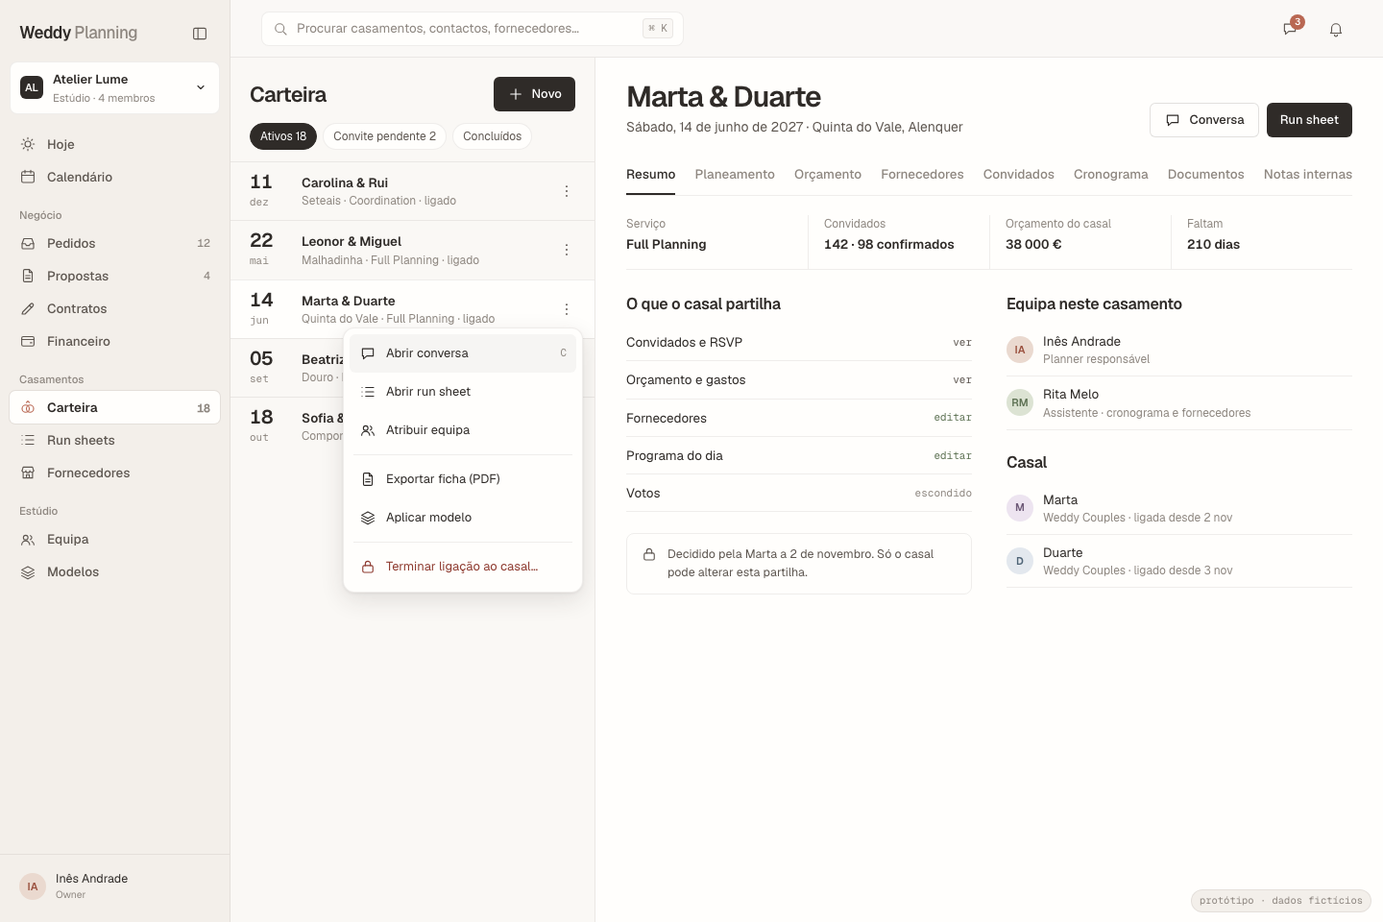
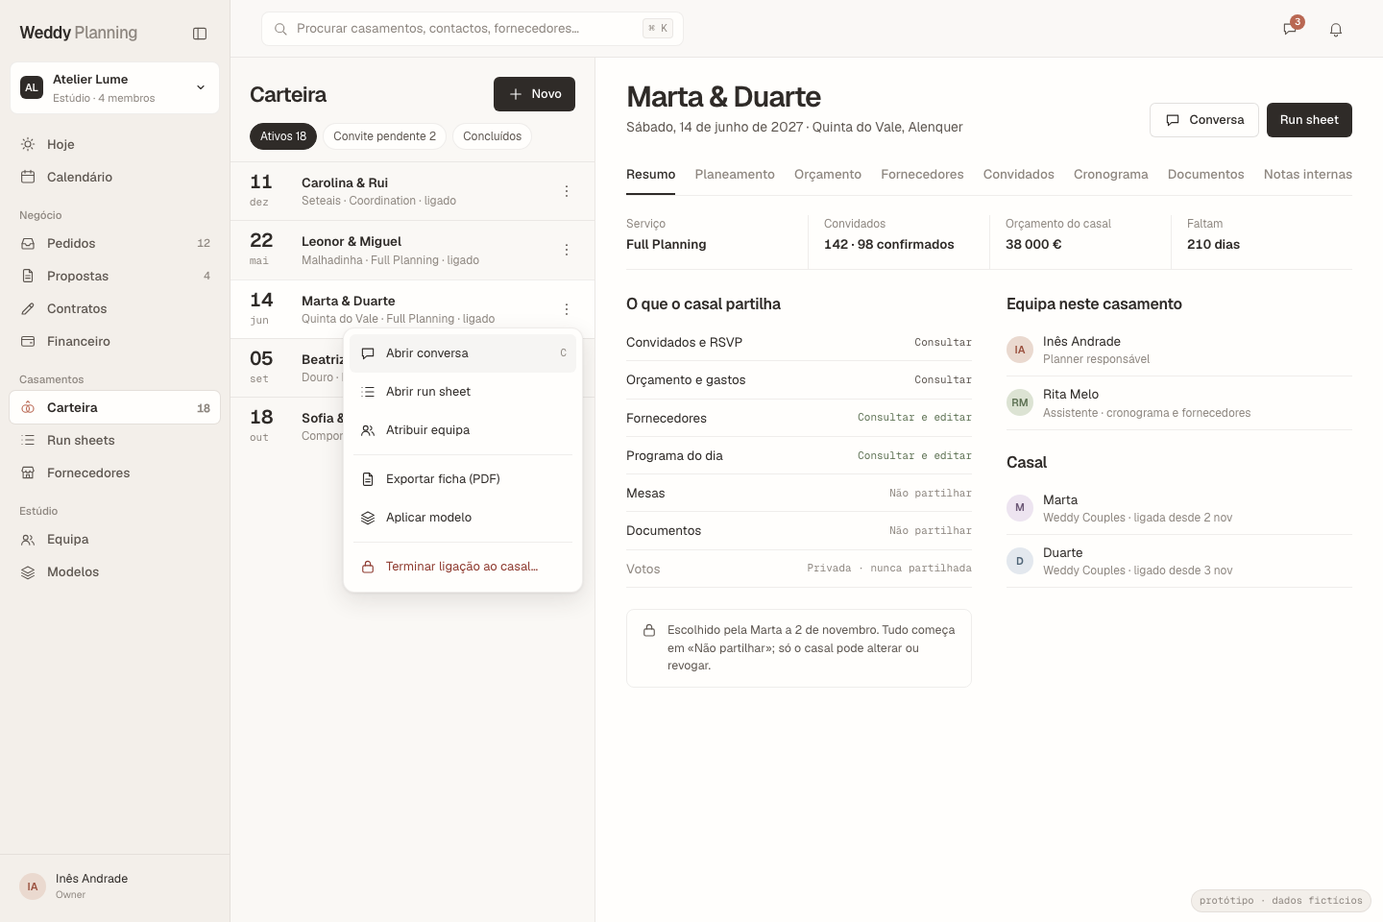
Weddy Planning — documentação v2.1: inconsistências corrigidas, Q1–Q8 explicitamente pendentes
- README: decisões pendentes em Doc. 3 §16; nota de que o planningLink do
  Doc. 1 §9 é exemplo histórico; nota sobre datas e localização do worktree.
- DESIGN.md e Doc. 5: shadcn/ui deixa de ser condicional (stack React + Vite).
- Protótipo e Doc. 5: níveis «Não partilhar / Consultar / Consultar e
  editar»; Votos como secção privada; capturas da Carteira atualizadas.
- Docs. 3, 6, 7: recomendações marcadas como não aprovadas; tabela de estado
  das questões Q1–Q8; datas corrigidas para 16/11/2026.
Doc. 1 e Doc. 2 inalterados. Só documentação.

diff --git a/docs/planning/prototipos/index.html b/docs/planning/prototipos/index.html
@@ -173,7 +173,9 @@ h2{font-weight:600;font-size:16px;letter-spacing:-.015em;margin:0}
 .share{list-style:none;margin:8px 0 0;padding:0}
 .share li{display:flex;align-items:center;justify-content:space-between;gap:12px;padding:9px 0;border-bottom:1px solid var(--line)}
 .lvl-pill{font-family:var(--mono);font-size:11px;color:var(--ink-2)}
-.lvl-pill.edit{color:var(--sage-dark)}.lvl-pill.hidden{color:var(--ink-soft)}
+.lvl-pill.edit{color:var(--sage-dark)}.lvl-pill.none{color:var(--ink-soft)}
+.share li.private{color:var(--ink-soft)}
+.share .priv-note{font-size:12px;color:var(--ink-soft);padding:9px 0 0}
 .people{list-style:none;margin:8px 0 0;padding:0}
 .people li{display:flex;align-items:center;gap:10px;padding:8px 0;border-bottom:1px solid var(--line)}
 .people small{color:var(--ink-soft);display:block;font-size:12px}
@@ -423,13 +425,15 @@ table.rs{width:100%;border-collapse:collapse;font-variant-numeric:tabular-nums}
               <div>
                 <h2>O que o casal partilha</h2>
                 <ul class="share">
-                  <li><span>Convidados e RSVP</span><span class="lvl-pill">ver</span></li>
-                  <li><span>Orçamento e gastos</span><span class="lvl-pill">ver</span></li>
-                  <li><span>Fornecedores</span><span class="lvl-pill edit">editar</span></li>
-                  <li><span>Programa do dia</span><span class="lvl-pill edit">editar</span></li>
-                  <li><span>Votos</span><span class="lvl-pill hidden">escondido</span></li>
+                  <li><span>Convidados e RSVP</span><span class="lvl-pill">Consultar</span></li>
+                  <li><span>Orçamento e gastos</span><span class="lvl-pill">Consultar</span></li>
+                  <li><span>Fornecedores</span><span class="lvl-pill edit">Consultar e editar</span></li>
+                  <li><span>Programa do dia</span><span class="lvl-pill edit">Consultar e editar</span></li>
+                  <li><span>Mesas</span><span class="lvl-pill none">Não partilhar</span></li>
+                  <li><span>Documentos</span><span class="lvl-pill none">Não partilhar</span></li>
+                  <li class="private"><span>Votos</span><span class="lvl-pill none">Privada · nunca partilhada</span></li>
                 </ul>
-                <div class="callout"><svg class="ic" aria-hidden="true"><use href="#i-lock"/></svg>Decidido pela Marta a 2 de novembro. Só o casal pode alterar esta partilha.</div>
+                <div class="callout"><svg class="ic" aria-hidden="true"><use href="#i-lock"/></svg>Escolhido pela Marta a 2 de novembro. Tudo começa em «Não partilhar»; só o casal pode alterar ou revogar.</div>
               </div>
               <div>
                 <h2>Equipa neste casamento</h2>

diff --git a/docs/planning/05-design-system.md b/docs/planning/05-design-system.md
@@ -1,6 +1,6 @@
 # Documento 5 — Design System da Weddy Planning
 
-Base: `docs/design/DESIGN-SYSTEM.md` (extraído do código real da Couples). A Planning **estende** esse sistema: mantém a paleta e o tom, mas é uma ferramenta de trabalho **desktop-first**, mais densa, com **tipografia sans geométrica minimalista** (revisão de 17/11, a pedido da Rita: as serifas deixam de ser usadas na Planning; a Couples não muda). Protótipo visual estático: `docs/planning/prototipos/index.html` (dados fictícios) e capturas em `docs/planning/prototipos/capturas/`.
+Base: `docs/design/DESIGN-SYSTEM.md` (extraído do código real da Couples). A Planning **estende** esse sistema: mantém a paleta e o tom, mas é uma ferramenta de trabalho **desktop-first**, mais densa, com **tipografia sans geométrica minimalista** (revisão de 16/11, a pedido da Rita: as serifas deixam de ser usadas na Planning; a Couples não muda). Protótipo visual estático: `docs/planning/prototipos/index.html` (dados fictícios) e capturas em `docs/planning/prototipos/capturas/`.
 
 Método: auditoria da identidade existente → extensão por padrões (formato "Extend" da skill `design:design-system`) → protótipo → capturas reais a 1440 px e 390 px → revisão visual e correções (3 rondas) → **revisão com as regras das skills Taste minimalist, Impeccable (/audit, /polish) e Vercel Web Interface Guidelines** (2 rondas: tipografia, botões, semântica, alvos de toque, algarismos tabulares).
 
@@ -65,7 +65,7 @@ Uma só família desenhada para a Weddy (21 símbolos num sprite): grelha 24, tr
 | Ecrã | Capturas | O que demonstra |
 |---|---|---|
 | Hoje | `hoje-desktop`, `hoje-telemovel`, `hoje-recolhida-desktop` | Números do negócio, radar com estado por ponto + texto, próximos casamentos, agenda, nota da IA com ações; barra lateral recolhida |
-| Carteira (novo) | `carteira-menu-desktop`, `carteira-telemovel`, `seletor-organizacao-desktop` | Mestre-detalhe; menu ⋮ aberto; **o que o casal partilha por secção** (ver/editar/escondido, decidido pelo casal); equipa atribuída; seletor de organização aberto |
+| Carteira (novo) | `carteira-menu-desktop`, `carteira-telemovel`, `seletor-organizacao-desktop` | Mestre-detalhe; menu ⋮ aberto; **o que o casal partilha por secção** (Não partilhar / Consultar / Consultar e editar, decidido pelo casal; votos como secção privada, não partilhável); equipa atribuída; seletor de organização aberto |
 | Pedidos | `crm-desktop` | Pipeline de 6 fases com filetes, etiquetas e valores |
 | Run sheet | `runsheet-desktop`, `runsheet-telemovel` | Tabela por fases, horas em mono, linha atual, estados, vistas Planner/Equipa/Fornecedores |
 | Conversas | `conversas-desktop`, `conversas-telemovel` | Três painéis, decisão registada, anexo, leitura individual |
@@ -79,17 +79,17 @@ Design system da Couples (`docs/design/DESIGN-SYSTEM.md`); padrões de mercado o
 
 ## 8. Skills de design utilizadas
 
-**2.ª ronda (17/11), pedidas pela Rita** — regras lidas nas fontes e aplicadas (nada instalado):
+**2.ª ronda (16/11), pedidas pela Rita** — regras lidas nas fontes e aplicadas (nada instalado):
 - **Menus (Uxcel Lab)**: tipo de menu pela estrutura da escolha, ordem por uso, 5–9 itens, divisórias, estados, atalhos só padrão → §4.
 - **Hallmark** ([nexu-io/open-design](https://github.com/nexu-io/open-design), Apache-2.0): variedade estrutural (mestre-detalhe) e anti-padrões (eyebrow em todas as secções, faixas laterais, hover-only, texto clicável em duas linhas) → §4.
 - **Icons8**: princípio de um só pacote coerente aplicado com um conjunto próprio; a skill exige MCP e licença da Icons8 → §5.
-- **shadcn/ui**: requer projeto com `components.json` (React + Tailwind); fica como recomendação de componentes se a stack for Vite + React → DESIGN.md.
+- **shadcn/ui**: biblioteca de componentes da stack aprovada (React + Vite); tematizada com os tokens do DESIGN.md → DESIGN.md.
 - **Redesign Existing Projects** (agora parte de `design-taste-frontend`, Leonxlnx): preservar marca e conteúdo, uma escala de raios, no máximo duas caixas encaixadas.
 - **Design System Generator**: produzido o [DESIGN.md](DESIGN.md) da Planning (tokens, tipografia, ícones, navegação, componentes, regras de qualidade).
 
 **1.ª ronda**:
 
-**Pedidas pela Rita a 17/11 e aplicadas** (regras lidas nos repositórios oficiais e aplicadas manualmente; nada instalado):
+**Pedidas pela Rita a 16/11 e aplicadas** (regras lidas nos repositórios oficiais e aplicadas manualmente; nada instalado):
 - **Taste — minimalist-skill** ([Leonxlnx/taste-skill-classics](https://github.com/Leonxlnx/taste-skill-classics)): sans geométrica, tracking negativo nos títulos, off-black, cor escassa, botões 4–6 px, sombras quase invisíveis, sem emojis.
 - **Impeccable** ([pbakaus/impeccable](https://github.com/pbakaus/impeccable)): `/audit` (acessibilidade, theming, responsivo, integridade) e `/polish` (alinhamento, estados, consistência tipográfica, alvos de toque).
 - **Web Interface Guidelines** ([vercel-labs/web-interface-guidelines](https://github.com/vercel-labs/web-interface-guidelines)): botões reais em vez de `<a>` sem destino, `aria-hidden` nos ícones decorativos, link para saltar ao conteúdo, `tabular-nums`, `touch-action: manipulation`, `theme-color`, sem `transition: all`, campo de pesquisa com rótulo.

diff --git a/docs/planning/06-roadmap-tecnico.md b/docs/planning/06-roadmap-tecnico.md
@@ -1,6 +1,6 @@
 # Documento 6 — Roadmap técnico
 
-**Versão 2 (17/11/2026)** — a Fase 1 passa a cinco entregas independentes (1A–1E). Nada está implementado. Legenda: **[Decisão aprovada]**, **[Proposta técnica]**, **[Questão pendente]** (Doc. 3 §16), **[Trabalho futuro]**.
+**Versão 2.1 (16/11/2026)** — a Fase 1 passa a cinco entregas independentes (1A–1E). Nada está implementado. Legenda: **[Decisão aprovada]**, **[Proposta técnica]**, **[Questão pendente]** (Doc. 3 §16), **[Trabalho futuro]**.
 
 Complexidade: **S** (dias), **M** (1–2 semanas), **L** (3–5 semanas), **XL** (> 5 semanas) para uma pessoa com apoio de IA.
 
@@ -38,24 +38,24 @@ E termina com relatório de testes e aprovação expressa antes da entrega segui
 - **Testes específicos**: convite expirado/reutilizado/revogado; membro de A tenta ler B; utilizador tenta alterar o próprio papel/estado; remoção concorrente com ação do próprio membro.
 
 ### 1B — RBAC, ABAC e isolamento
-- **Entregáveis**: matriz de papéis (owner, admin, planner, coordinator, assistant) e permissões por área da organização; helpers de autorização partilhados pelas funções; regras correspondentes; App Check (enforcement nas callables da Planning; Firestore/Storage em monitor).
+- **Entregáveis**: matriz de papéis (owner, admin, planner, coordinator, assistant) e permissões por área da organização; helpers de autorização partilhados pelas funções; regras correspondentes; App Check com a estratégia decidida em Q7 (proposta: enforcement nas callables da Planning; Firestore/Storage em monitor).
 - **Aceitação**: matriz de autorização do Doc. 3 §11 coberta por testes (cada linha, caso permitido e recusado); nenhuma decisão de segurança só no frontend.
 - **Testes específicos**: 2 organizações × 5 papéis × operações; pedidos sem App Check recusados nas callables; IDOR trocando `orgId` no caminho e no corpo do pedido.
 
 ### 1C — Grants e ligação profissional
 - **Entregáveis**: `planningInvites`; `professionalLinks/{orgId}` com `status`; `grants/{uid}`; aceitação com verificação de propriedade (Doc. 3 §8); fim da relação; revogação de grant; e-mails de convite com o envio existente (anti-injeção).
 - **Fora de âmbito**: qualquer leitura ou escrita dos dados do casal.
-- **Aceitação**: só um dono real do casamento associa o casamento; conhecer ID, email ou token não basta; regra de Q1 aplicada (até decisão: no máximo uma ligação ativa).
+- **Aceitação**: só um dono real do casamento associa o casamento; conhecer ID, email ou token não basta; comportamento com várias organizações conforme a decisão Q1 — **a 1C não começa sem essa decisão**.
 - **Testes específicos**: utilizador não-dono com token válido; dono com token de outro convite; convite expirado/revogado/reutilizado; força bruta (rate limit); casamento já ligado a esta/outra organização; contas Apple com email privado; fim da relação pelo casal e pela organização; Couples intacta após cada caso.
 
 ### 1D — Consentimento e projeção segura
-- **Entregáveis**: ecrã de permissões do casal (Doc. 7 §4); função de consentimento (só donos); `accessRequests`; projeções por secção com `sourceRev`; regras de leitura que verificam a autorização atual; invalidação na revogação; reconciliação agendada e a pedido; leitura sensível por função.
+- **Entregáveis**: ecrã de permissões do casal (Doc. 7 §4); função de consentimento (só donos); `accessRequests`; projeções conforme a estratégia decidida em Q4 (proposta: por secção, com `sourceRev`); regras de leitura que verificam a autorização atual; invalidação na revogação; reconciliação agendada e a pedido; leitura sensível por função.
 - **Aceitação**: nenhuma secção visível sem escolha afirmativa do casal; revogação com efeito imediato mesmo com projeção antiga.
 - **Testes específicos**: revogação durante uma leitura; alterações rápidas de permissões (`none→read→none` em < 1 s); trigger atrasada (simulada); trigger falhada (sem projeção); projeção desatualizada após revogação; casal e planner em simultâneo; cache local do planner após `permission-denied`; membro removido com listener aberto.
 
 ### 1E — Escrita controlada por secção
 - **Entregáveis**: função `planningUpdateSection` com verificação completa, `baseRev`, validação de esquema por secção e operações da tabela M4a (Doc. 4); registo em `activity` e `auditLog`.
-- **Aceitação**: escrita só em secções `read_write`; nenhuma eliminação pelo planner (proposta Q8); Couples sem regressões.
+- **Aceitação**: escrita só em secções `read_write`; operações do planner por secção conforme a decisão Q8 (proposta: sem eliminação); Couples sem regressões.
 - **Testes específicos**: escrita em `read` e `none` recusada; revogação entre leitura e escrita; conflito de `baseRev`; edição simultânea do casal e do planner na mesma chave e em chaves diferentes; tamanho do `json` dentro do limite; `validateWeddingStateOnWrite` aceita as escritas válidas; suite completa da Couples.
 
 ## Fases seguintes (inalteradas no âmbito, reordenadas na dependência)

diff --git a/docs/planning/03-arquitetura-tecnica.md b/docs/planning/03-arquitetura-tecnica.md
@@ -1,6 +1,6 @@
 # Documento 3 — Arquitetura técnica
 
-**Versão 2 (17/11/2026)** — revista após a revisão da Fase 0. A direção estratégica está aprovada; **a arquitetura técnica tem aprovação condicionada** às questões da §16. Nada deste documento está implementado.
+**Versão 2.1 (16/11/2026)** — revista após a revisão da Fase 0. A direção estratégica está aprovada; **a arquitetura técnica tem aprovação condicionada** às questões da §16. Nada deste documento está implementado.
 
 Legenda usada em todo o documento:
 **[Estado atual]** o que existe hoje (ver Documento 1) · **[Decisão aprovada]** decidido pela proprietária · **[Proposta técnica]** recomendação, ainda não aprovada · **[Questão pendente]** exige decisão (§16) · **[Trabalho futuro]** fora da Fase 1.
@@ -97,7 +97,7 @@ Opções de leitura [Questão pendente] Q4:
 | **R2. Projeção protegida por regras que leem a autorização** | `plannerViews/{weddingId}_{orgId}/sections/{section}` gerada por trigger; a **regra** de leitura verifica, no momento, `consent/current.sections[section] in ['read','read_write']` + `grants/{uid}.status=='active'` + `professionalLinks/{orgId}.status=='active'` + membership ativa | Imediata: a regra lê a autorização atual, mesmo que a projeção ainda tenha dados antigos | Tempo real; 3–4 `get()` por leitura nas regras |
 | **R3. Híbrida** | R2 para leitura em tempo real + R1 para operações sensíveis (exportações, IA, documentos) | Imediata | Recomendada |
 
-**Recomendação técnica: R3.** Uma projeção por secção (não um documento único) para que retirar uma secção não exija reescrever as outras.
+**Recomendação técnica (pendente de Q4): R3.** Uma projeção por secção (não um documento único) para que retirar uma secção não exija reescrever as outras.
 
 Sincronização, invalidação e falhas [Proposta técnica]:
 - **Geração**: trigger `onDocumentWritten(weddings/{id})` compara a revisão por chave de topo e reescreve só as secções alteradas e autorizadas; cada documento de projeção guarda `sourceRev` e `generatedAt`.
@@ -237,6 +237,19 @@ Funções (codebase `planning`): organizações e membros, convites internos e a
 **Estratégia de migração**: nenhuma migração de dados existentes; todas as coleções são novas; casamentos sem ligação comportam-se como hoje.
 
 ## 16. Questões pendentes (decisão da proprietária)
+
+**Estado a 16/11/2026: as oito questões continuam por decidir.** As recomendações abaixo são propostas técnicas para apoiar a decisão; **não** são decisões aprovadas e nenhuma entrega que dependa delas começa antes da decisão expressa (ver Doc. 6, coluna «Decisões necessárias»). Onde este documento usa um modelo concreto (p. ex. `professionalLinks`, `clientId = leadId`, projeções R3), trata-se da proposta em avaliação.
+
+| Questão | Estado | Recomendação técnica (não aprovada) |
+|---|---|---|
+| Q1 Uma ou várias organizações por casamento | Pendente | Dados preparados para várias, produto com uma |
+| Q2 Leads, clientes, utilizadores e casamentos | Pendente | `clientId = leadId`; ficha interna após aceitação |
+| Q3 Modelo de grants e permissões | Pendente | Documentos por ligação, sem custom claims |
+| Q4 Projeções e invalidação | Pendente | R3 (híbrida) |
+| Q5 Retenção e auditoria | Pendente | Prazos com aconselhamento jurídico |
+| Q6 Staging e prova de isolamento | Pendente | Auditar o candidato; projeto novo se houver partilha |
+| Q7 Enforcement do App Check | Pendente | Callables em enforcement desde o início |
+| Q8 Operações do planner por secção | Pendente | Editar sem apagar |
 
 ### Q1. Uma ou várias organizações com relação ativa por casamento?
 - **Problema**: um casal pode ter, p. ex., uma planner e uma decoradora/coordenadora do dia; ou mudar de planner.

diff --git a/docs/planning/README.md b/docs/planning/README.md
@@ -1,6 +1,6 @@
 # Weddy Planning — Fase 0 (auditoria, arquitetura e plano)
 
-Estado: **aguarda aprovação**. Nenhuma funcionalidade implementada; nenhuma alteração à Couples, às regras, às funções ou ao Firebase; sem push, merge ou deploy.
+Estado: **aprovação condicionada** (v2 de 16/11/2026). A Fase 1 não está autorizada. Nenhuma funcionalidade implementada; nenhuma alteração à Couples, às regras, às funções ou ao Firebase; sem push, merge ou deploy.
 
 | # | Documento |
 |---|---|
@@ -10,6 +10,12 @@ Estado: **aguarda aprovação**. Nenhuma funcionalidade implementada; nenhuma al
 | 4 | [Especificação funcional](04-especificacao-funcional.md) |
 | 5 | [Design system](05-design-system.md) · [protótipo](prototipos/index.html) · [capturas](prototipos/capturas/) |
 | 6 | [Roadmap técnico](06-roadmap-tecnico.md) |
-| 7 | [Plano de proteção da Weddy Couples](07-protecao-weddy-couples.md) |
+| 7 | [Plano de integração e proteção da Weddy Couples](07-protecao-weddy-couples.md) |
+| — | [DESIGN.md](DESIGN.md) — regras visuais da Planning (resumo do Doc. 5) |
 
-Decisões pendentes: Doc. 3 §13 e Doc. 6 «Pré-requisitos».
+Decisões pendentes: **Doc. 3 §16** (questões Q1–Q8, todas por decidir) e Doc. 6 «Pré-requisitos» (P1, P3–P6).
+
+## Notas de leitura
+- **Doc. 1 é um registo factual** da auditoria de 16/11/2026 e não é atualizado com decisões posteriores. A referência ao campo `planningLink` no Doc. 1 §9 é um **exemplo histórico**: esse desenho foi substituído no Doc. 3 v2 §4 pela subcoleção `weddings/{id}/professionalLinks/{orgId}` (proposta técnica, pendente de Q1/Q3).
+- Docs. 1 e 2 indicam a data 17/11/2026 por lapso; o trabalho foi realizado a 16/11/2026 (ver datas dos commits). Não foram alterados para preservar o registo original.
+- Localização: worktree `~/weddy-producao/planning` (branch `feature/weddy-planning`), criado em `~/weddy-planning` e movido com `git worktree move` a 16/11/2026.

diff --git a/docs/planning/DESIGN.md b/docs/planning/DESIGN.md
@@ -42,6 +42,8 @@ Hoje = leitura principal + coluna de agenda · Carteira = mestre-detalhe · Pedi
 ## Componentes
 Botão primário escuro 36 px raio 6, secundário com contorno, ligação terracota sublinhada no hover. Etiquetas pill 20 px. Estado = ponto colorido + texto. Nota da IA = bloco `--mark` com rótulo mono "Weddy Intelligence" e ações explícitas; nada é executado sem confirmação.
 
+Níveis de partilha do casal (nomenclatura aprovada, Doc. 3 §5): **Não partilhar · Consultar · Consultar e editar**. Mostrar sempre o texto completo do nível (nunca só cor ou ícone). Secções privadas (votos, lua-de-mel, listas pessoais, visitas ao vestido) aparecem como "Privada · nunca partilhada", sem controlo.
+
 ## Regras de qualidade (verificar em cada ecrã)
 - Sem scroll horizontal a 390 px; testar 1440, 1024, 768 e 390 px.
 - Botões reais para ações, `<a>` só para navegação; nada de ações só no hover.
@@ -50,5 +52,5 @@ Botão primário escuro 36 px raio 6, secundário com contorno, ligação terrac
 - Animar só `transform`/`opacity`; sem `transition: all`; respeitar `prefers-reduced-motion`.
 - Uma camada de contenção (no máximo duas caixas encaixadas); sem faixas laterais coloridas em cartões.
 
-## Componentes de implementação (decisão pendente)
-Se a stack for Vite + React (Doc. 3 §13.2), usar **shadcn/ui** (Radix) para Dialog, Sheet, DropdownMenu, Command (⌘K), Tabs, Calendar e DataTable, tematizado com estes tokens. Se for HTML/ES modules sem build, implementar os mesmos padrões à mão, como no protótipo.
+## Componentes de implementação
+Stack aprovada: **React + Vite + shadcn/ui** (Doc. 3 §1). Usar shadcn/ui (Radix) para Dialog, Sheet, DropdownMenu, Command (⌘K), Tabs, Calendar e DataTable, **tematizado com estes tokens** (sem o tema por omissão do shadcn). O protótipo estático implementa os mesmos padrões à mão apenas como referência visual.

diff --git a/docs/planning/07-protecao-weddy-couples.md b/docs/planning/07-protecao-weddy-couples.md
@@ -1,6 +1,6 @@
 # Documento 7 — Plano de integração e proteção da Weddy Couples
 
-**Versão 2 (17/11/2026)** — revista após a revisão da Fase 0. Legenda: **[Estado atual]**, **[Decisão aprovada]**, **[Proposta técnica]**, **[Questão pendente]** (Doc. 3 §16), **[Trabalho futuro]**.
+**Versão 2.1 (16/11/2026)** — revista após a revisão da Fase 0. Legenda: **[Estado atual]**, **[Decisão aprovada]**, **[Proposta técnica]**, **[Questão pendente]** (Doc. 3 §16), **[Trabalho futuro]**.
 
 Objetivo: a Couples continua a funcionar exatamente como hoje e **nunca depende** da Weddy Planning. Este documento lista tudo o que a Planning pode tocar, porquê, e como se prova que nada regrediu.
 
@@ -33,7 +33,7 @@ Não são criados sistemas paralelos de convidados, mesas, orçamento, fornecedo
 | `app/index.html` + `app/sw.js` | 1D/F3 (opcional) e **F4** | 1D/F3: um ponto de entrada discreto para a página de permissões, visível só com ligação; F4: ícone e ecrã de Conversations | Nada visível sem ligação ativa |
 | `rsvp.html`, `memorias.html`, `convite.html`, `site.html`, `weddysite.js`, `weddyinvite*.js`, `convites8/` | — | **Nenhuma** | — |
 
-Alteração em relação à v1: a proposta anterior acrescentava um campo `planningLink` ao documento `weddings/{id}` e protegia-o alterando a regra de `update` de `weddings`. Com a ligação numa subcoleção só do servidor (Doc. 3 §4), **a regra existente de `weddings` não precisa de mudar**.
+Alteração em relação à v1: a proposta anterior acrescentava um campo `planningLink` ao documento `weddings/{id}` e protegia-o alterando a regra de `update` de `weddings`. Com a ligação numa subcoleção só do servidor (proposta do Doc. 3 §4, pendente de Q1/Q3), **a regra existente de `weddings` não precisaria de mudar**.
 
 ## 3. Serviços partilhados
 

diff --git a/docs/planning/04-especificacao-funcional.md b/docs/planning/04-especificacao-funcional.md
@@ -1,6 +1,6 @@
 # Documento 4 — Especificação funcional da Weddy Planning
 
-**Versão 2 (17/11/2026)** — revista após a revisão da Fase 0. Especificação de produto; nada está implementado. Legenda: **[Decisão aprovada]**, **[Proposta técnica]**, **[Questão pendente]** (ver Doc. 3 §16), **[Trabalho futuro]**. Os nomes de dados seguem o Doc. 3 v2 (`professionalLinks`, `consent`, `grants`), que substitui o antigo `planningLink`.
+**Versão 2.1 (16/11/2026)** — revista após a revisão da Fase 0. Especificação de produto; nada está implementado. Legenda: **[Decisão aprovada]**, **[Proposta técnica]**, **[Questão pendente]** (ver Doc. 3 §16), **[Trabalho futuro]**. Os nomes de dados seguem o Doc. 3 v2 (`professionalLinks`, `consent`, `grants`), que substitui o antigo `planningLink`.
 
 Formato por módulo: **Objetivo · Utilizadores · Funcionalidades · Permissões · Dados · Estados · Dependências · Testes**. Papéis: OW owner, AD admin, PL planner, CO coordinator, AS assistant; casal: CP (owner/partner). "Grant" = acesso da pessoa ao casamento (Doc. 3 §4).
 
